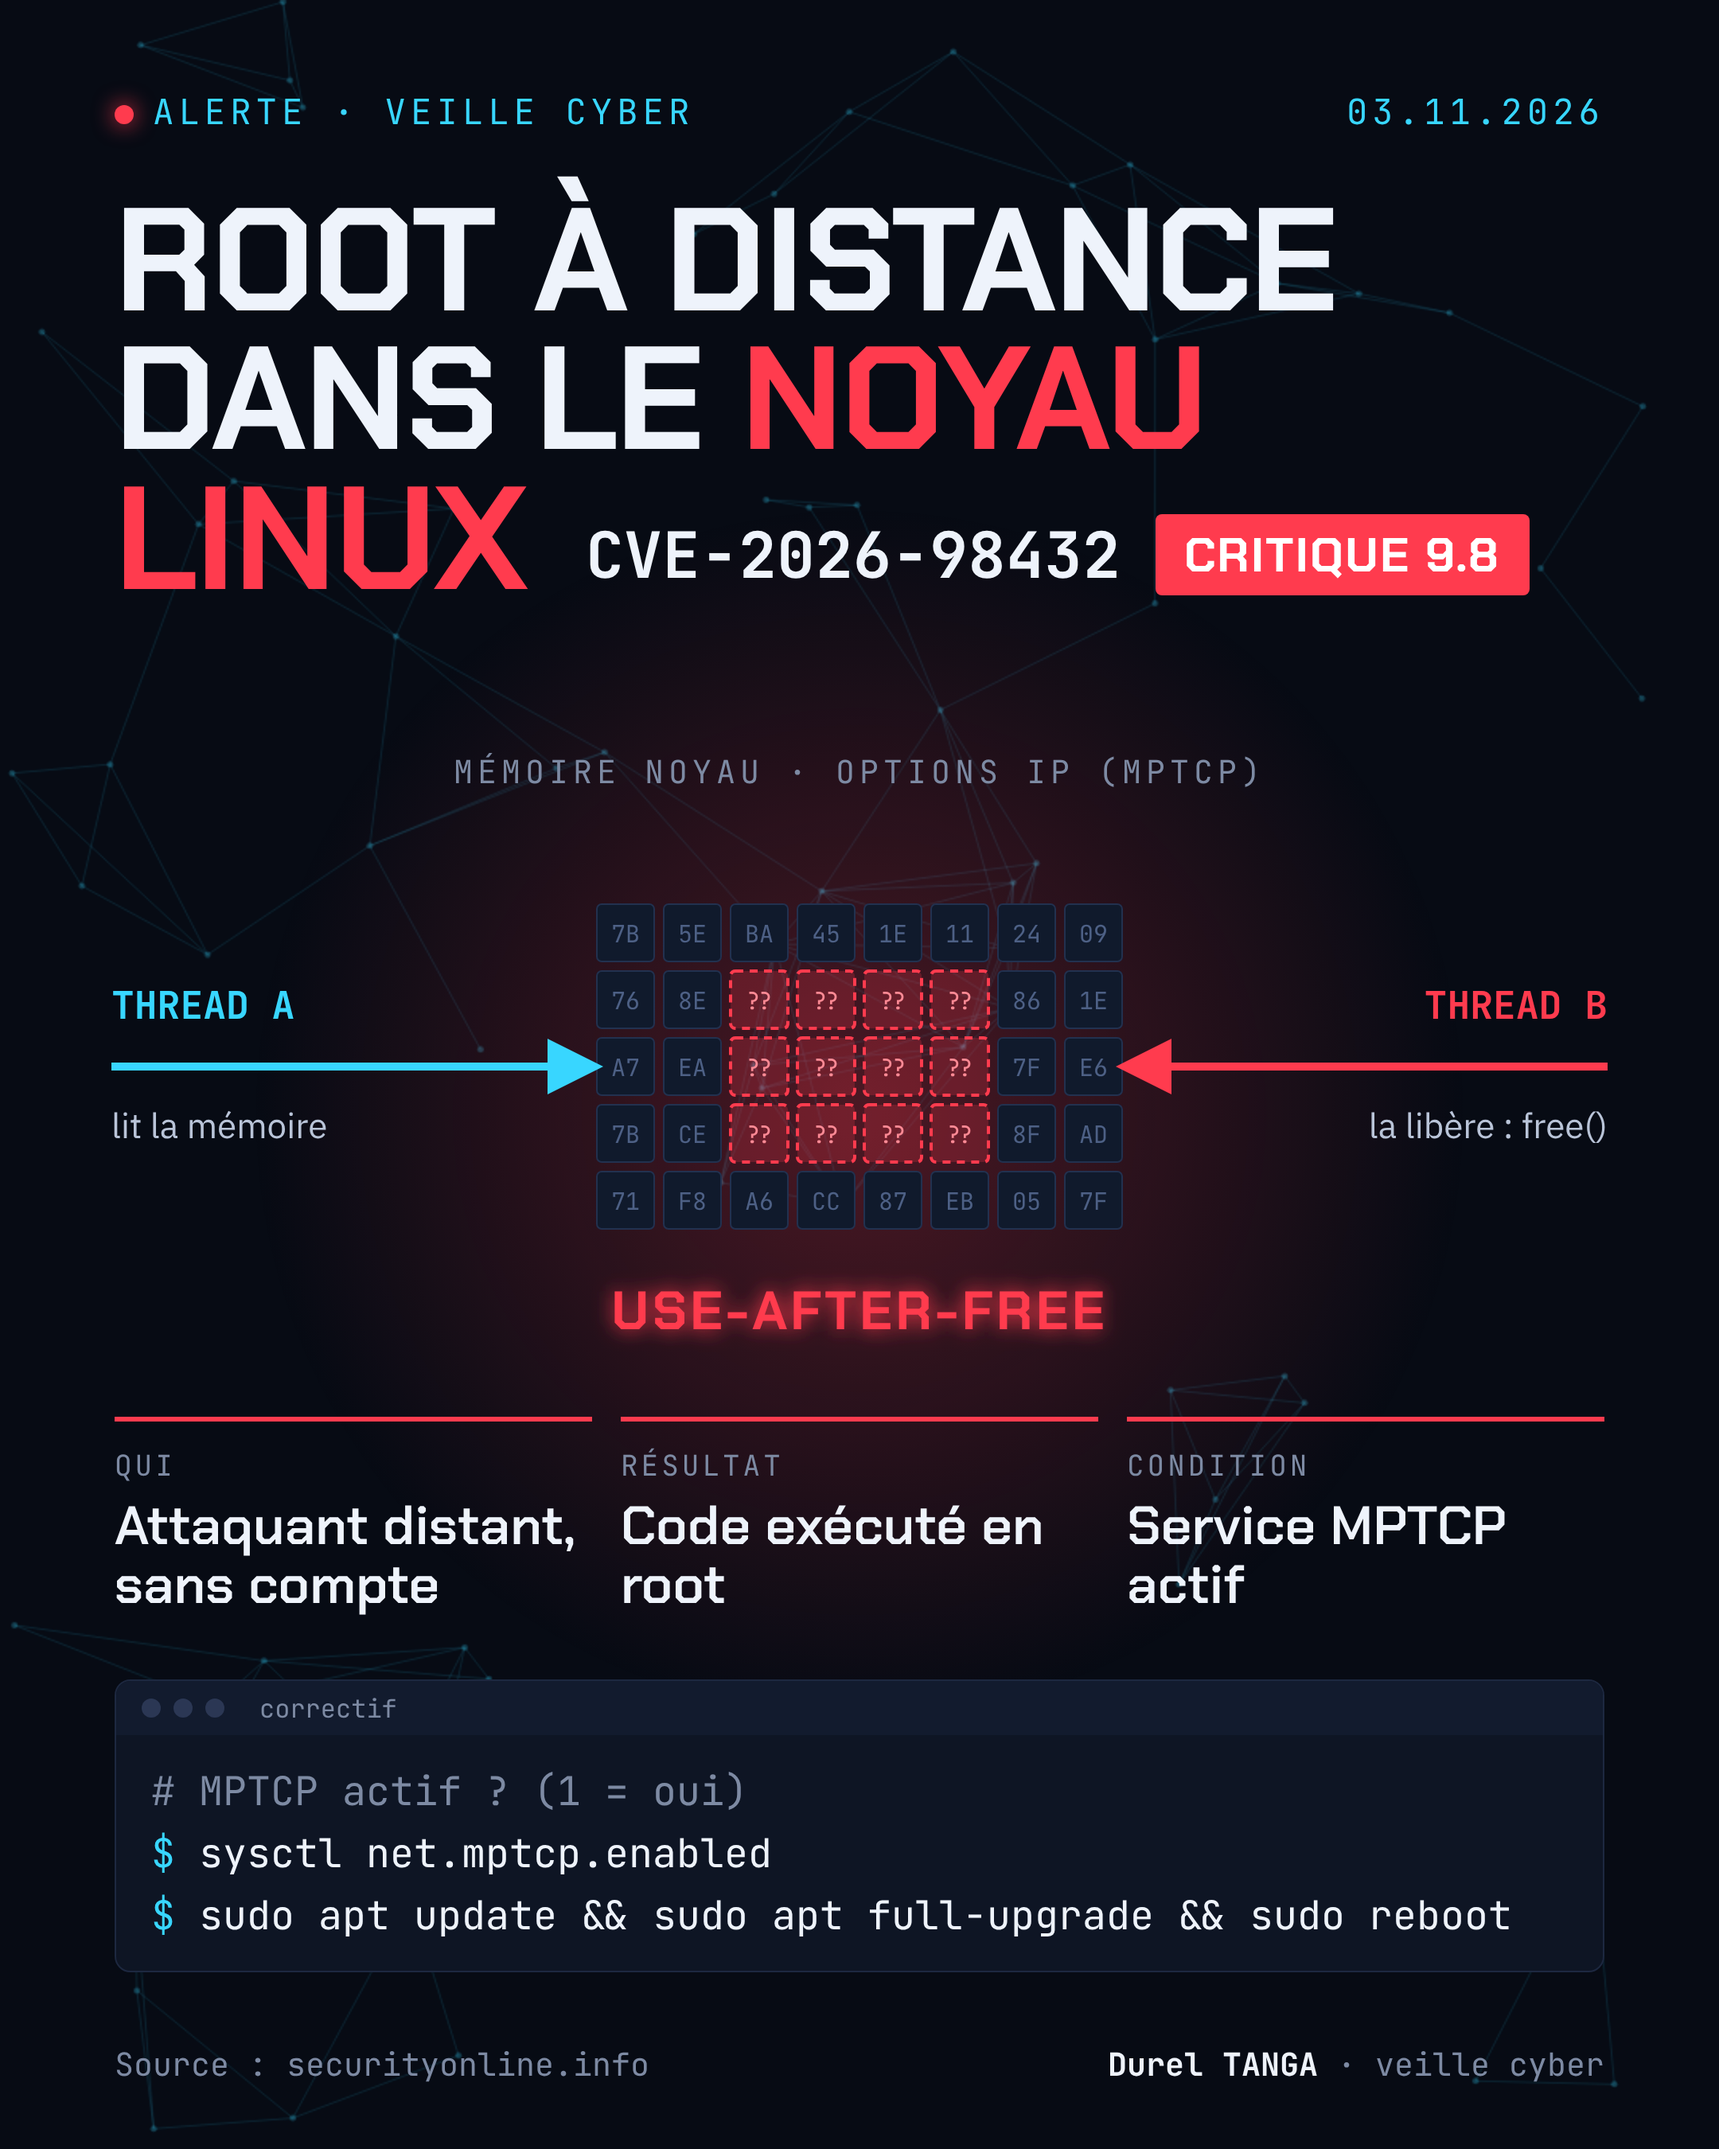
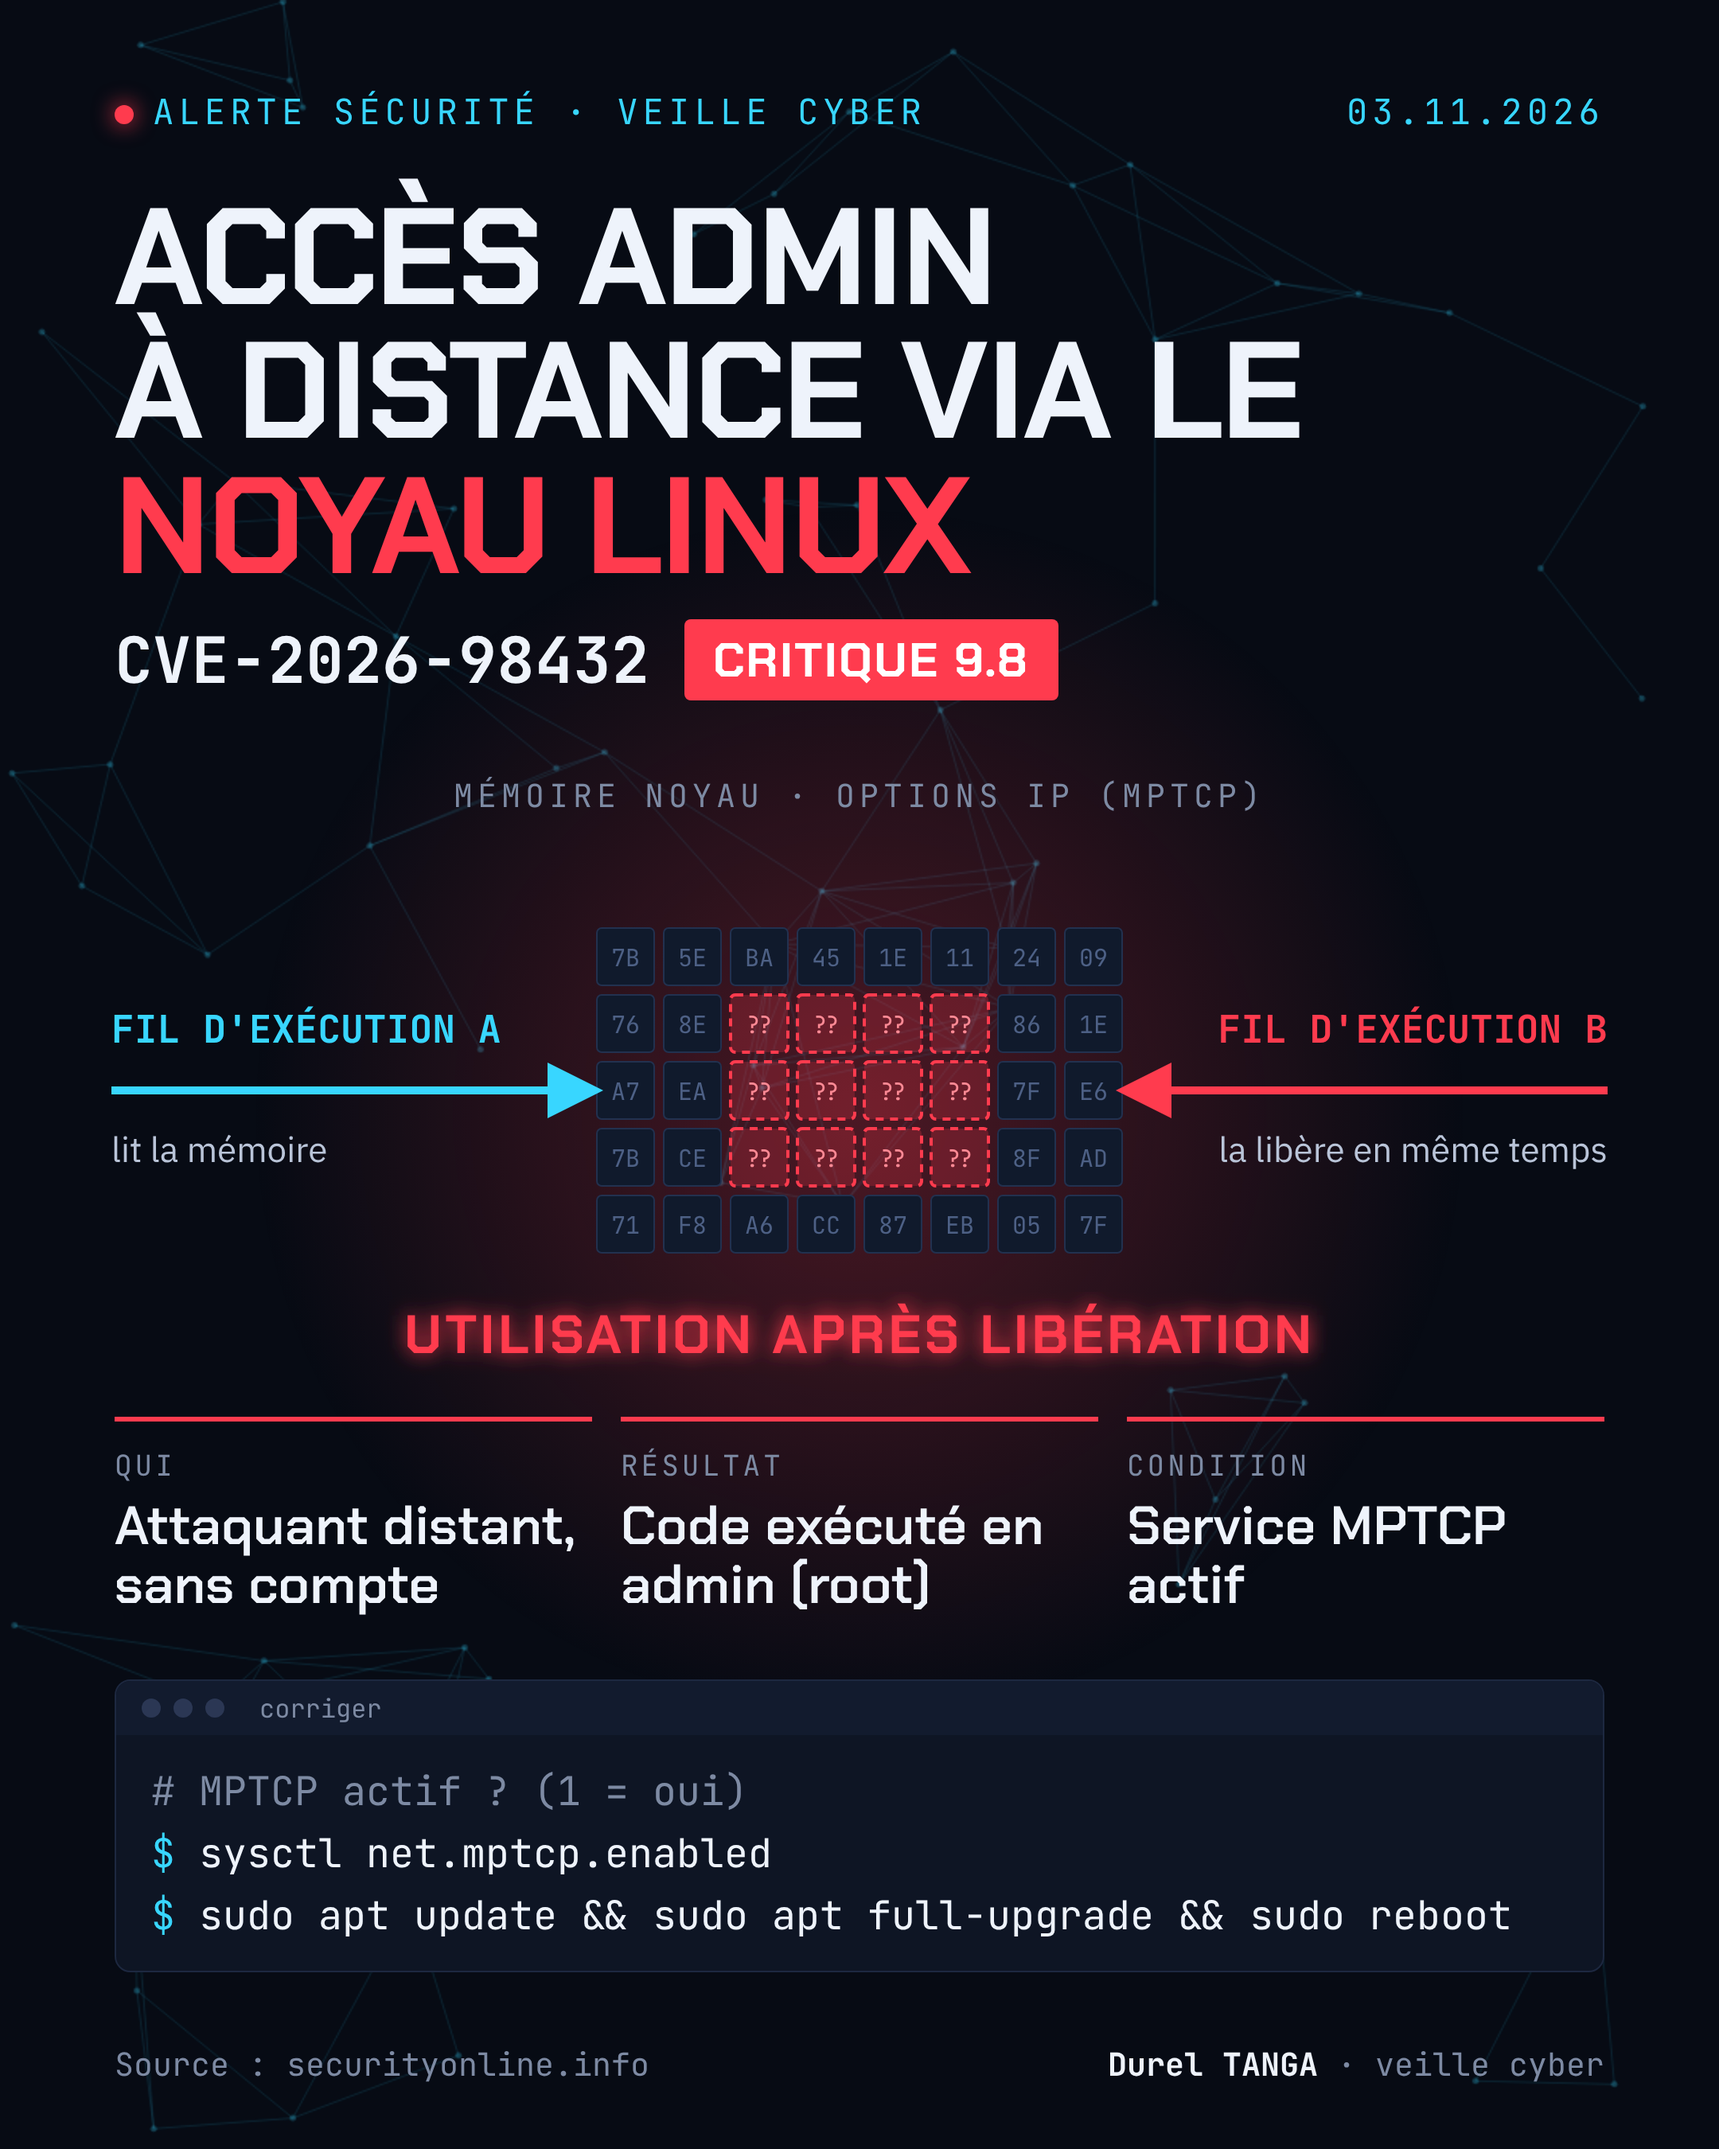
Fiche et visuel CVE-2026-98432 entièrement en français
Claude-Session: https://claude.ai/code/session_01BjCf26Mxth12TtKqixncHz

diff --git a/fiches/2026-11-03_CVE-2026-98432.md b/fiches/2026-11-03_CVE-2026-98432.md
@@ -1,4 +1,4 @@
-# CVE-2026-98432 : noyau Linux, use-after-free dans MPTCP
+# CVE-2026-98432 : faille critique dans le noyau Linux (MPTCP)
 
 ![CVE-2026-98432](../images/CVE-2026-98432.png)
 
@@ -6,18 +6,18 @@
 |---|---|
 | Publication | 30/10/2026 |
 | Sévérité | Critique, CVSS 9.8 |
-| Composant | Noyau Linux, IPv4 / Multipath TCP |
-| Type | Use-after-free (race condition) |
+| Composant | Noyau Linux, gestion réseau IPv4 / MPTCP (TCP multi-chemins) |
+| Type | Utilisation de mémoire après libération, due à un accès concurrent |
 | Exploitation connue | Non à ce jour |
 
 ## Le problème
-Pendant qu'un thread lit les options IP d'une connexion MPTCP, un autre libère la même mémoire. Un attaquant distant non authentifié peut en profiter pour exécuter du code en root.
+Pendant qu'un fil d'exécution du noyau lit les options IP d'une connexion MPTCP, un autre libère la même zone mémoire au même moment. Un attaquant à distance, sans compte sur la machine, peut en profiter pour exécuter du code avec les droits administrateur (root).
 
 ## Condition
 Un service MPTCP doit être en écoute. MPTCP est désactivé par défaut sur la plupart des distributions.
 
 ## Versions concernées
-Ubuntu 16.04 à 26.10 d'après l'article source. Correctifs déjà intégrés aux branches stables du noyau upstream, en attente de paquets côté distributions.
+Ubuntu 16.04 à 26.10 d'après l'article source. Les correctifs sont déjà intégrés au noyau officiel. Les distributions doivent maintenant publier leurs paquets mis à jour.
 
 ## Que faire
 ```bash
@@ -27,12 +27,12 @@ sysctl net.mptcp.enabled
 # Version du noyau en cours
 uname -r
 
-# Mise à jour (Debian/Ubuntu) dès que le paquet est publié
+# Mettre à jour (Debian/Ubuntu) dès que le paquet est publié
 sudo apt update && sudo apt full-upgrade
 sudo reboot
 ```
 
-En attendant le patch, si MPTCP ne sert pas : `sudo sysctl -w net.mptcp.enabled=0` (temporaire, jusqu'au prochain redémarrage).
+En attendant le correctif, si MPTCP ne sert pas : `sudo sysctl -w net.mptcp.enabled=0` (temporaire, jusqu'au prochain redémarrage).
 
 ## Source
 https://securityonline.info/linux-kernel-cve-2026-98432/
